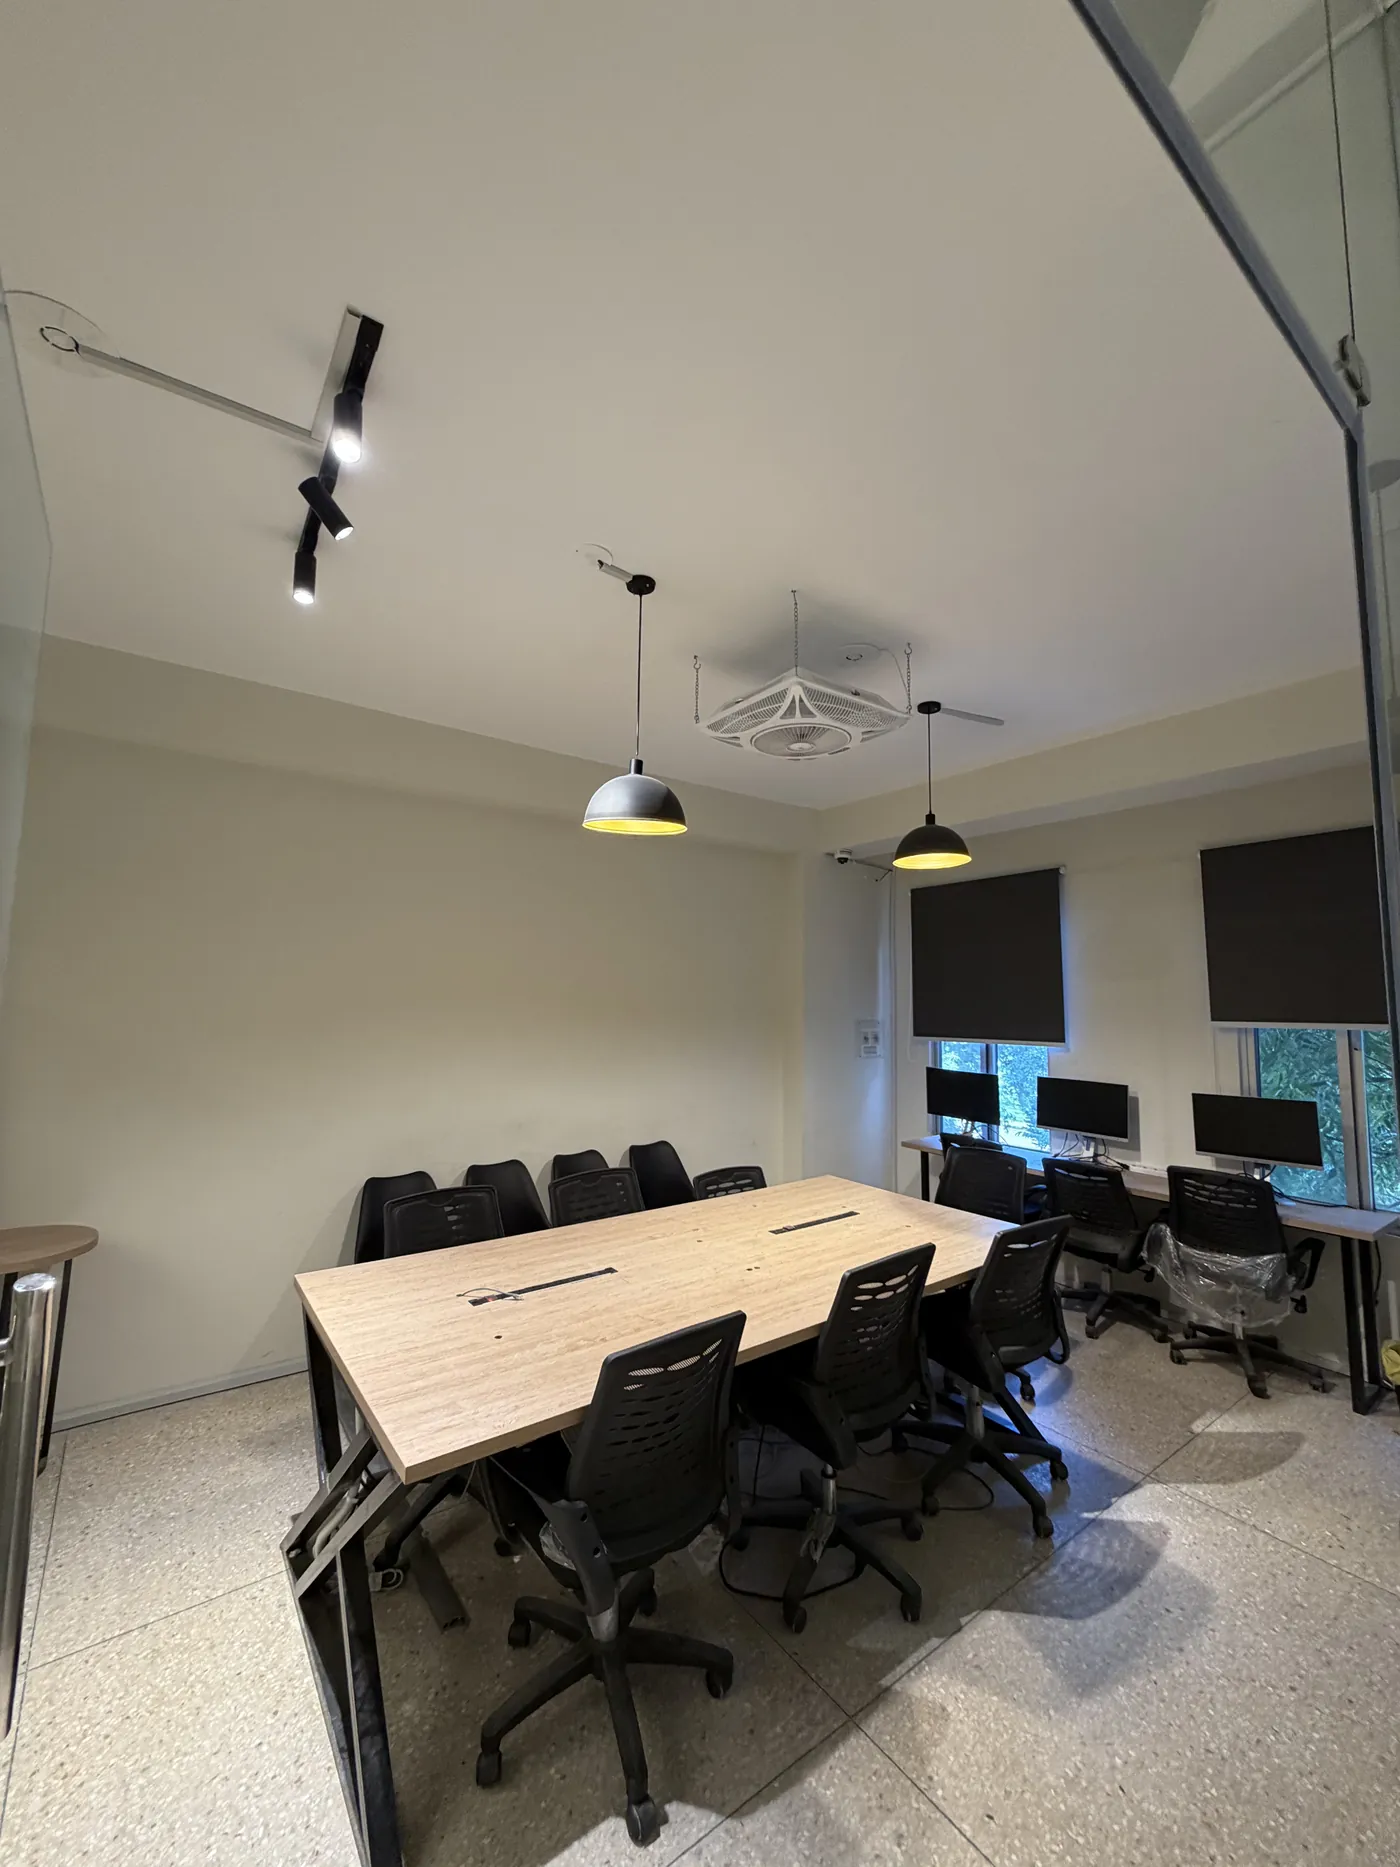
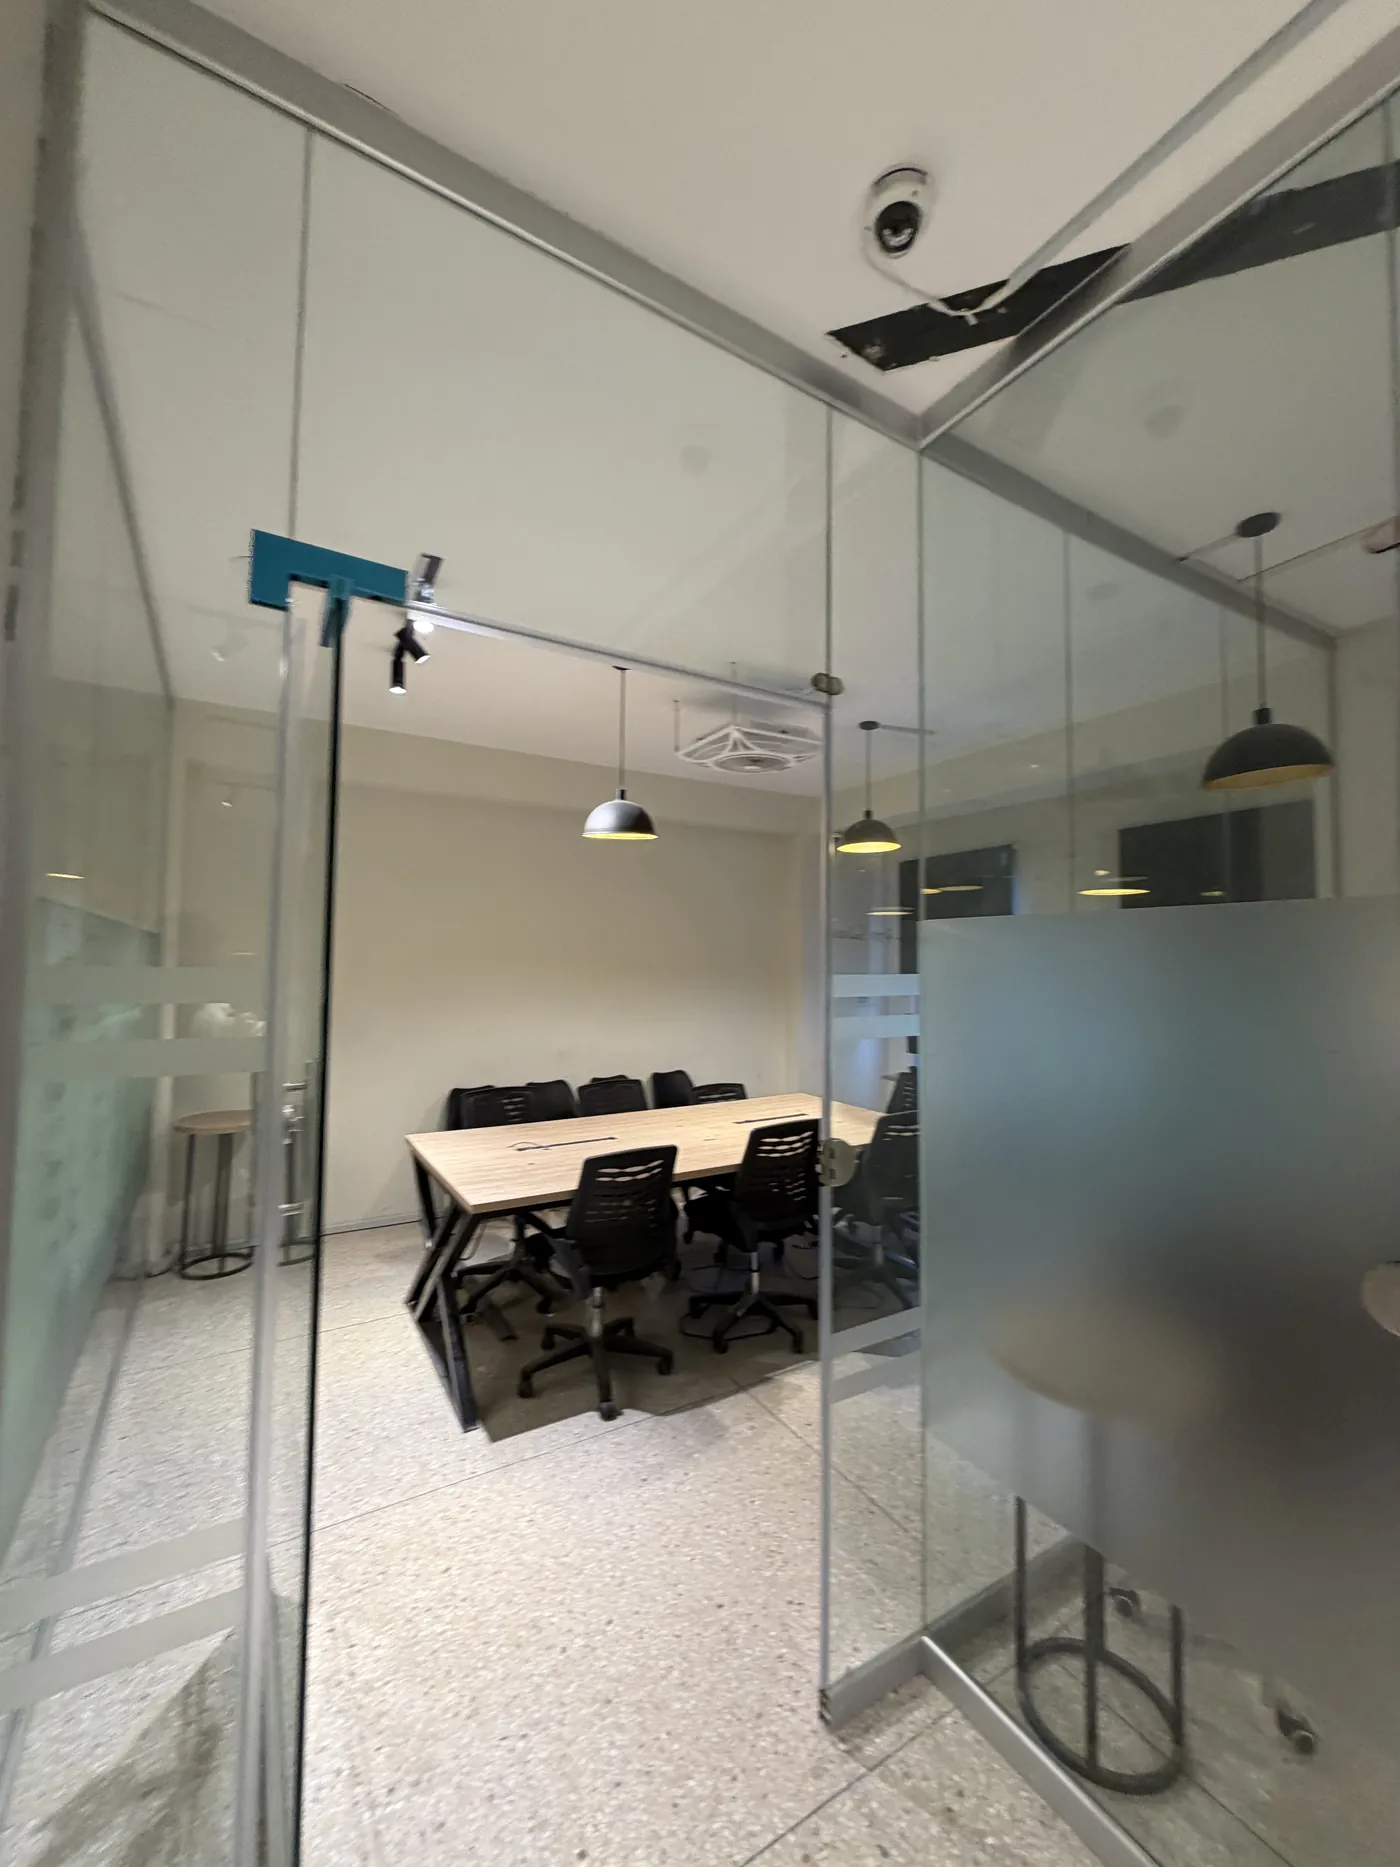
feat: use the conference room as a full-screen hero photo
Replace the split reception hero with a full-screen conference room
photo behind the headline, darkened on the left for readability. Use a
different conference room shot in the spaces carousel so the same
image doesn't appear twice.

diff --git a/src/app/page.tsx b/src/app/page.tsx
@@ -17,15 +17,27 @@ export default function Home() {
     <>
       <Header />
       <main id="top">
-        {/* Hero: text then photo on phones and tablets; text left, photo panel right on desktop. */}
-        <section className="relative flex flex-col overflow-hidden bg-ink pt-28 text-cream lg:min-h-[100dvh] lg:flex-row lg:items-center lg:pt-24 lg:pb-16">
-          <div className={`${container} relative z-10 w-full`}>
-            <h1 className="max-w-4xl font-serif text-[3.2rem] leading-[1.02] sm:text-7xl lg:text-[5.4rem] xl:text-[6rem]">
+        {/* Hero */}
+        <section className="relative flex min-h-[100dvh] items-center overflow-hidden bg-ink pt-24 pb-16 text-cream">
+          <Image
+            src={hero.image}
+            alt={hero.imageAlt}
+            fill
+            preload
+            sizes="100vw"
+            placeholder="blur"
+            className="object-cover object-[50%_68%]"
+          />
+          {/* Darken the photo so the headline stays readable, most on the left where the text sits. */}
+          <div className="absolute inset-0 bg-ink/60 sm:bg-transparent sm:bg-linear-to-r sm:from-ink/90 sm:via-ink/60 sm:to-ink/20" aria-hidden="true" />
+          <div className="absolute inset-0 bg-linear-to-t from-ink/60 via-transparent to-ink/50" aria-hidden="true" />
+          <div className={`${container} relative w-full`}>
+            <h1 className="max-w-4xl font-serif text-[3.2rem] leading-[1.02] sm:text-7xl lg:text-[6rem]">
               {hero.lead[0]}
               <br />
               {hero.lead[1]} <span className="text-brass-light italic">{hero.accent}</span>
             </h1>
-            <p className="mt-8 max-w-2xl text-lg leading-relaxed text-cream/85 sm:text-xl lg:max-w-[50%]">{hero.body}</p>
+            <p className="mt-8 max-w-2xl text-lg leading-relaxed text-cream/85 sm:text-xl">{hero.body}</p>
             <div className="mt-10 flex flex-col gap-3 sm:flex-row sm:gap-4">
               <a href={hero.primary.href} className={`${btn} bg-brass text-ink hover:bg-brass-light`}>
                 {hero.primary.label}
@@ -34,24 +46,6 @@ export default function Home() {
                 {hero.secondary.label}
               </a>
             </div>
-          </div>
-          <div className="relative mt-14 aspect-[4/3] w-full sm:aspect-[16/10] lg:absolute lg:inset-y-0 lg:right-0 lg:mt-0 lg:aspect-auto lg:w-[46%]">
-            <Image
-              src={hero.image}
-              alt={hero.imageAlt}
-              fill
-              preload
-              sizes="(min-width: 1024px) 46vw, 100vw"
-              placeholder="blur"
-              className="object-cover object-[58%_68%] lg:object-[58%_60%]"
-            />
-            {/* Fade the photo into the dark page: from above on small screens, from the left on desktop. */}
-            <div
-              className="absolute inset-0 bg-linear-to-b from-ink via-transparent to-transparent lg:bg-linear-to-r lg:via-ink/10"
-              aria-hidden="true"
-            />
-            {/* Keeps the desktop header readable over the bright ceiling. */}
-            <div className="absolute inset-x-0 top-0 hidden h-40 bg-linear-to-b from-ink/70 to-transparent lg:block" aria-hidden="true" />
           </div>
         </section>
 

diff --git a/src/content/site.ts b/src/content/site.ts
@@ -1,6 +1,6 @@
 // Every piece of copy on the page lives here.
 
-import heroReception from "@/assets/photos/hero-reception.webp";
+import heroConferenceRoom from "@/assets/photos/hero-conference-room.webp";
 import spaceConferenceRoom from "@/assets/photos/space-conference-room.webp";
 import spaceLounge from "@/assets/photos/space-lounge.webp";
 import spaceOpenFloor from "@/assets/photos/space-open-floor.webp";
@@ -30,8 +30,8 @@ export const hero = {
   lead: ["Room to think.", "Space to"],
   accent: "grow.",
   body: `Hot desks, dedicated desks, private offices and conference rooms at ATS Centre, ${site.location}. Built for freelancers, remote professionals and teams working with clients around the world.`,
-  image: heroReception,
-  imageAlt: "Shalimar Coworking reception desk with a gold sign under pendant lights",
+  image: heroConferenceRoom,
+  imageAlt: "Conference room at Shalimar Coworking with a long meeting table and windows onto greenery",
   primary: { label: "Book a tour", href: "/#contact" },
   secondary: { label: "See pricing", href: "/#pricing" },
 };
@@ -84,7 +84,7 @@ export const spaces = {
   items: [
     { name: "The Open Floor", image: spaceOpenFloor, alt: "Shared desks with monitors on the open floor", meta: "Hot & dedicated desks", body: "A shared floor with flexible workstations and ergonomic furniture. Good for freelancers and remote professionals." },
     { name: "Private Offices", image: spacePrivateOffice, alt: "A glass-walled private office with desks for a small team", meta: "2–3 seats", body: "Your own room within the space, for people who need privacy and focus. Good for small teams, business partners and consultants." },
-    { name: "Conference Rooms", image: spaceConferenceRoom, alt: "Conference room with a long meeting table and chairs", meta: "By the hour", body: "Well-equipped rooms for team discussions, client meetings and workshops. Bookable by the hour." },
+    { name: "Conference Rooms", image: spaceConferenceRoom, alt: "Glass-walled conference room with a meeting table", meta: "By the hour", body: "Well-equipped rooms for team discussions, client meetings and workshops. Bookable by the hour." },
     { name: "Community Areas", image: spaceLounge, alt: "Lounge with leather sofas and armchairs", meta: "Lounges & events", body: "Shared lounges for a break between tasks, plus regular networking events and workshops." },
   ],
 };
